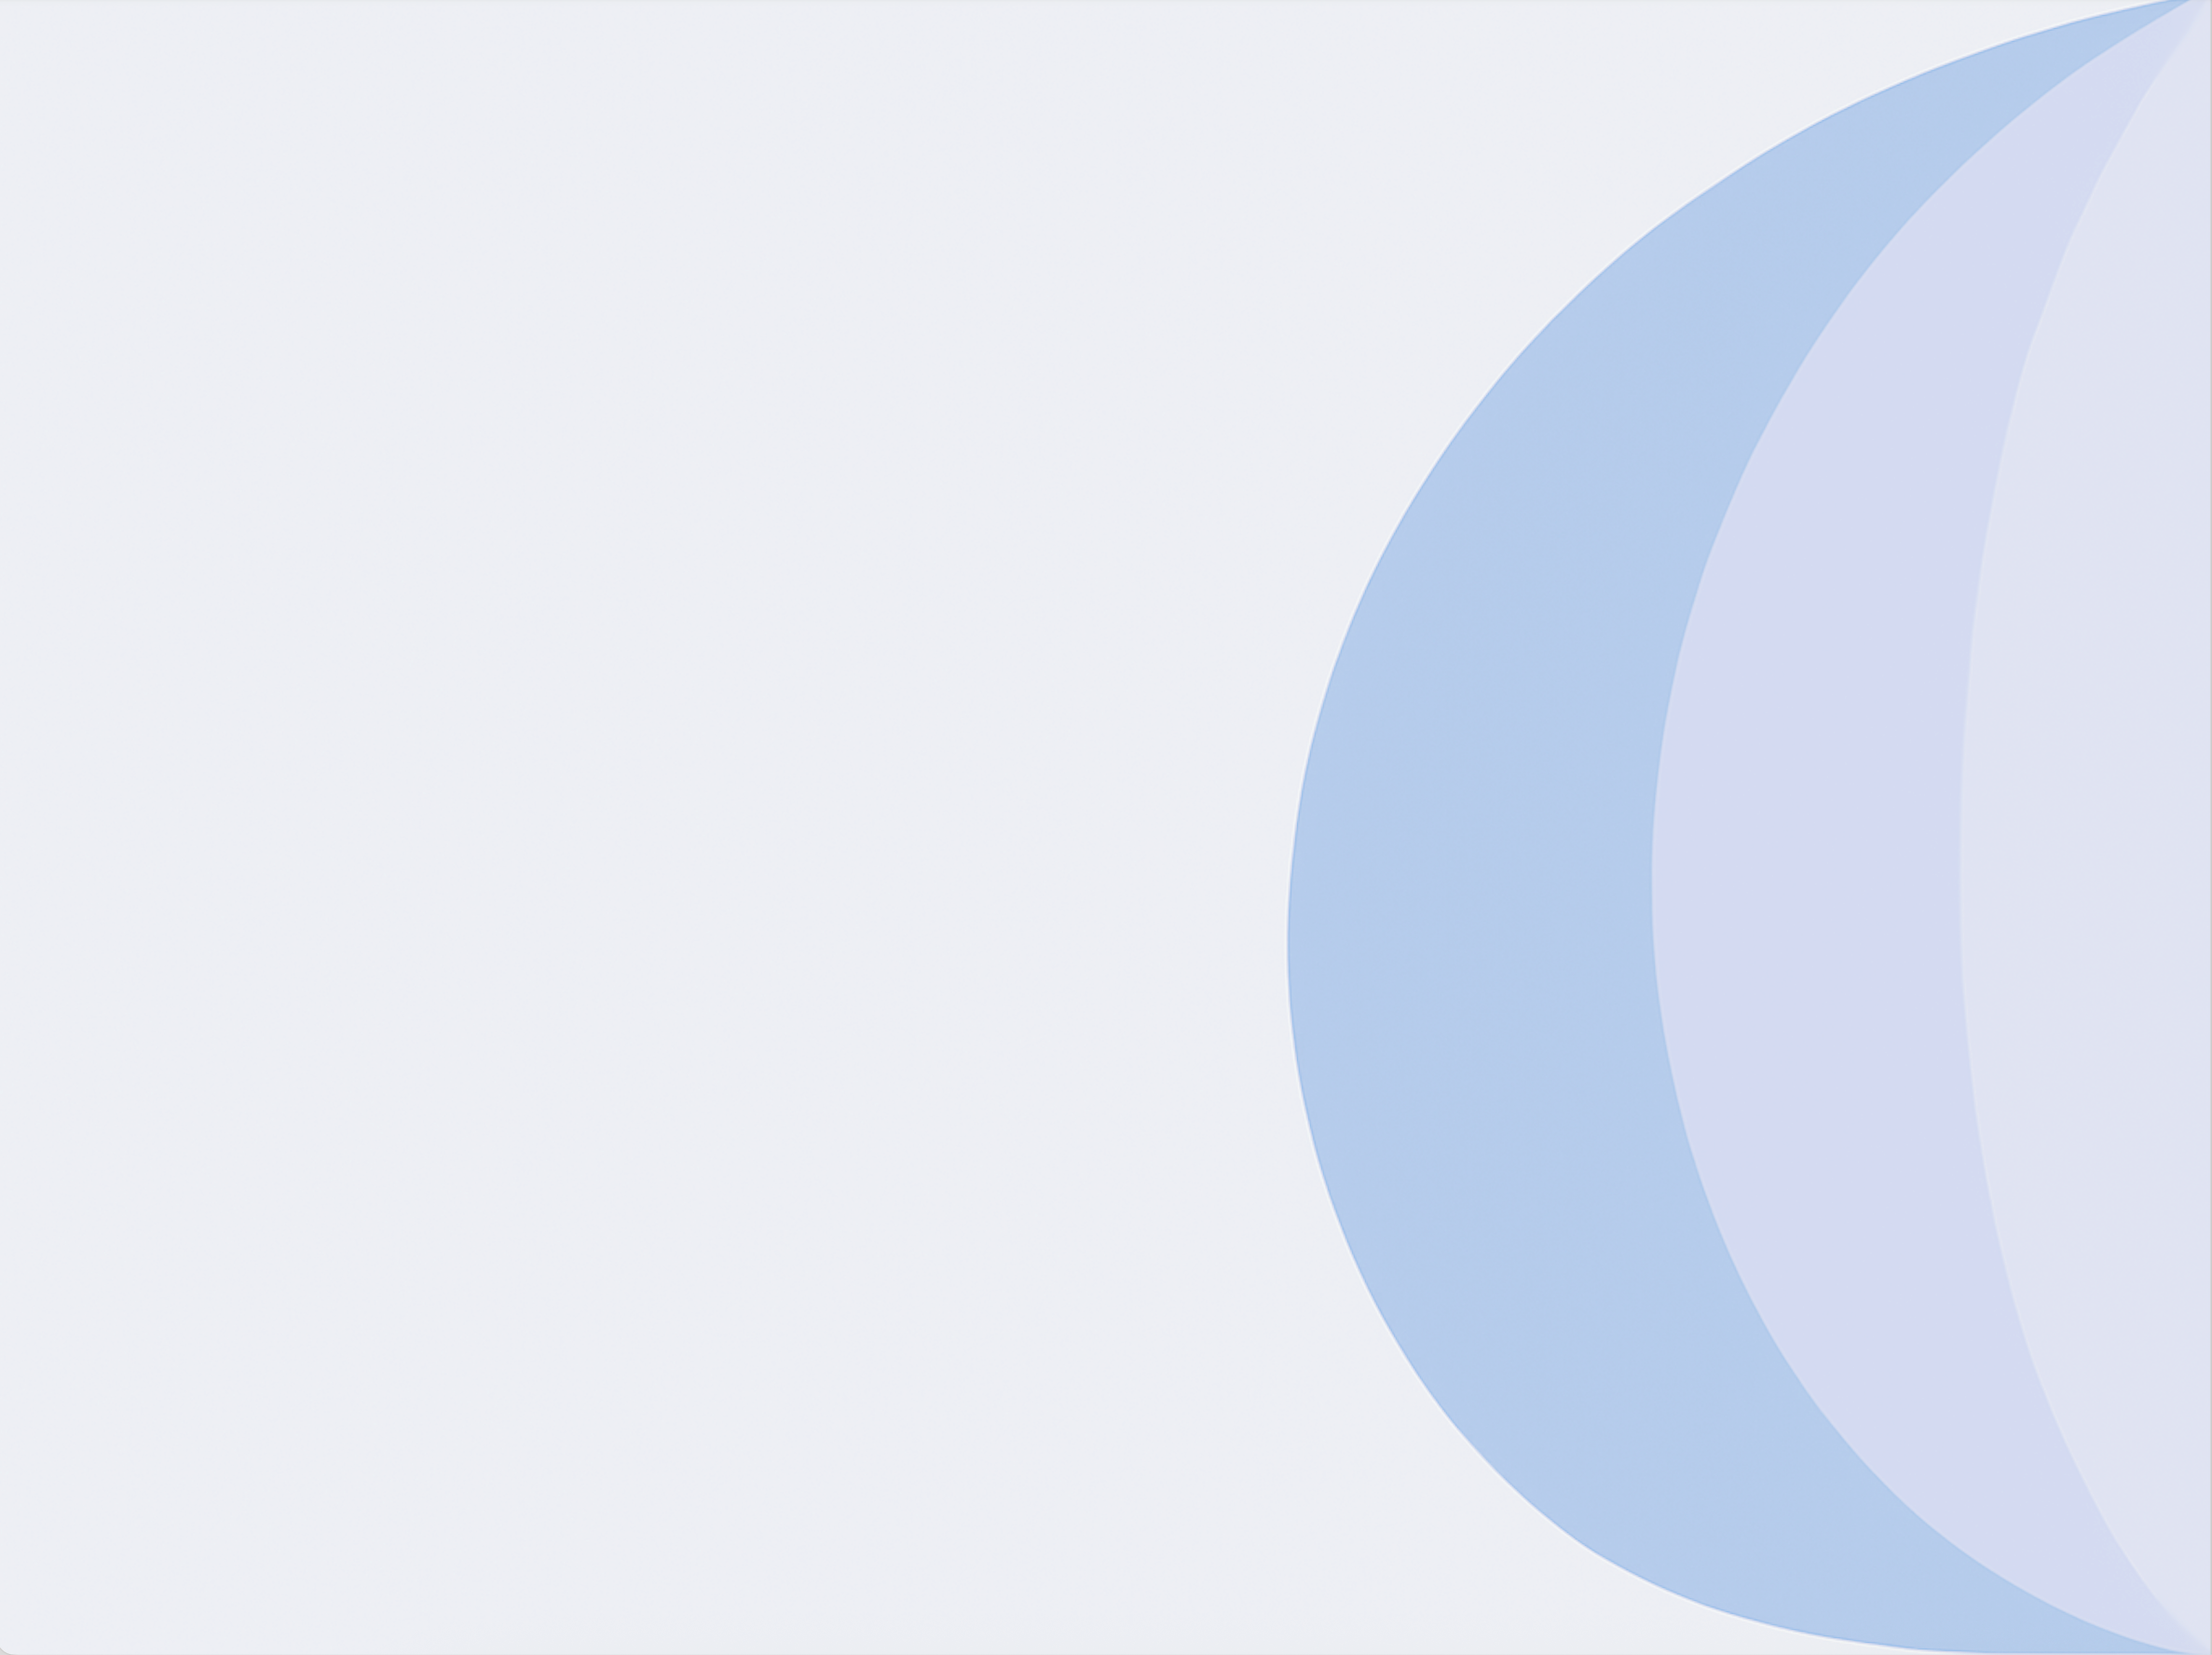
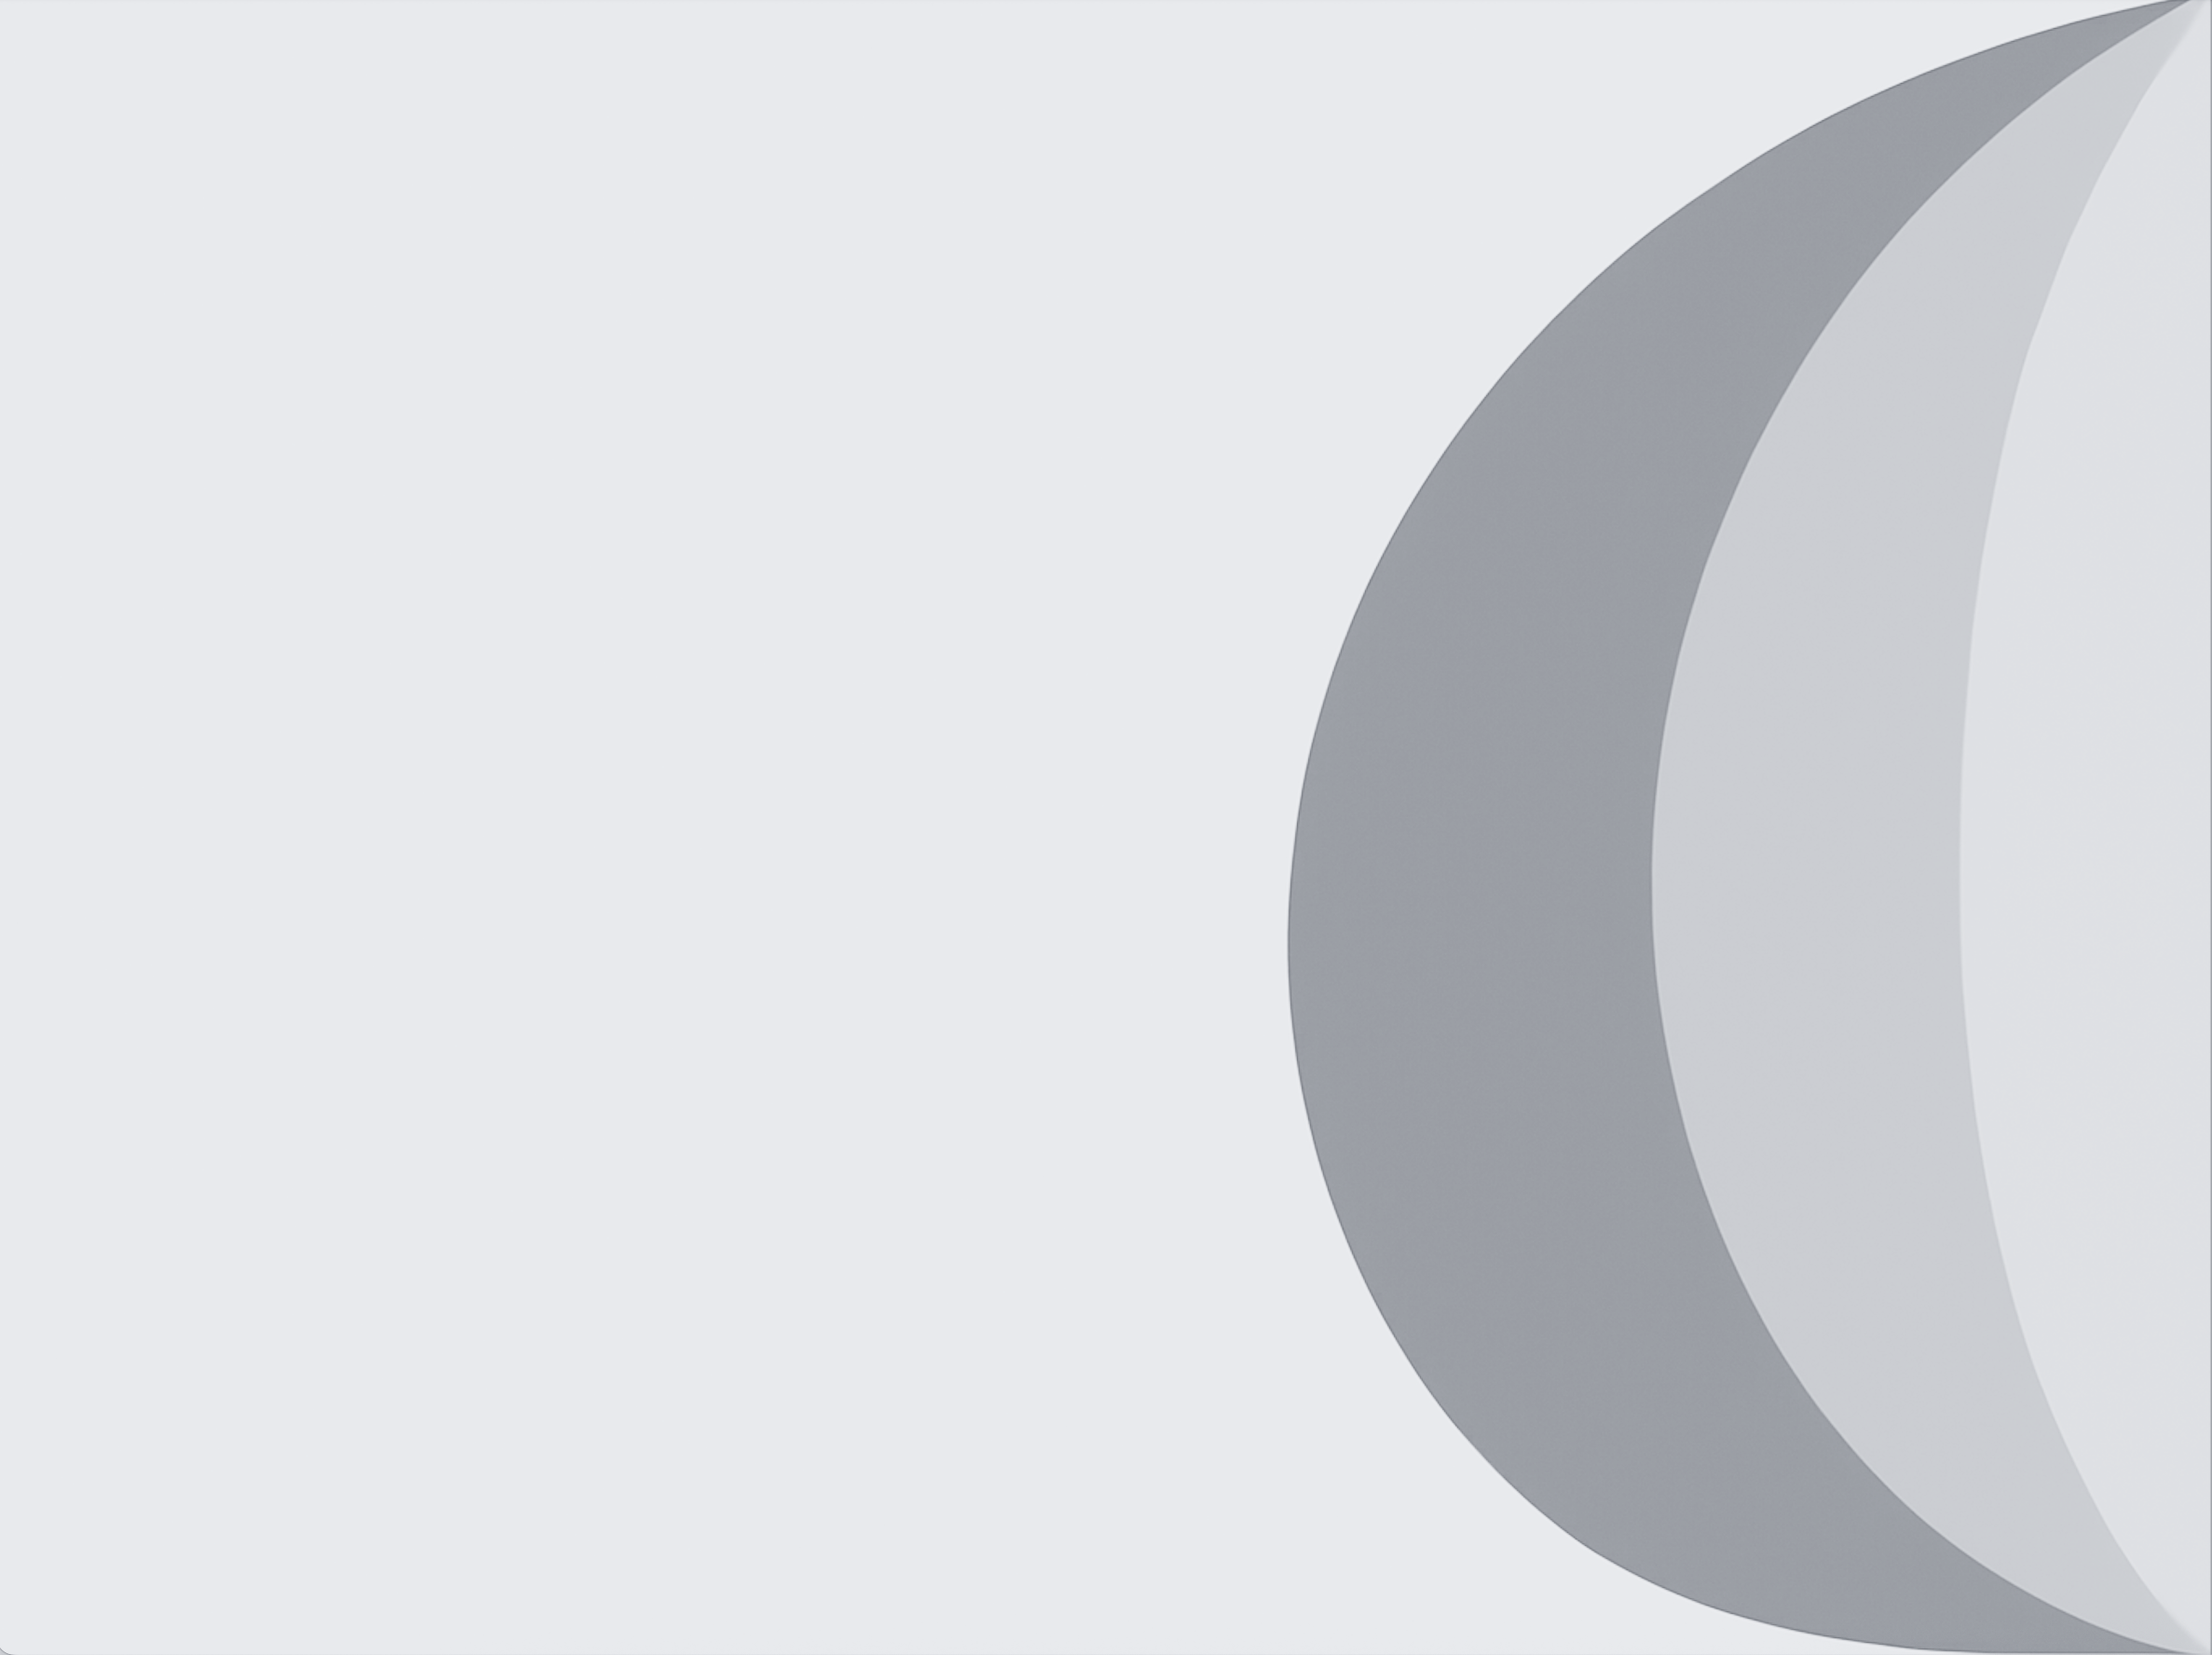
Added Animation when starting up the App and Reworked AutoLoginHandler so that if the user uses the Staylogged in Button, the Landing Page loads immediately instead of loading ontop of the Login Scene.
Redesigned Login and Register Look and Feel and Reworked Top Bar Menu.

Changed region(s): [[0.5611, 0.0, 1.0, 1.0]]

diff --git a/Main-Project/StudySpace/src/main/resources/application/studyspace/styles/Stylesheet.css b/Main-Project/StudySpace/src/main/resources/application/studyspace/styles/Stylesheet.css
@@ -25,7 +25,7 @@
 
 /* TextField & PasswordField styling */
 .text-field, .password-field {
-    -fx-background-color: #becaff;
+    -fx-background-color: #c0c3d1;
     -fx-border-color: transparent;
     -fx-background-radius: 20;
     -fx-border-radius: 20;
@@ -36,20 +36,20 @@
 }
 
 .text-field:focused, .password-field:focused {
-    -fx-border-color: #b8aefd;
+    -fx-border-color: #827f91;
     -fx-border-width: 2px;
 }
 
 /* Login/Register Button */
 .button {
-    -fx-background-color: #e2e4ff;
+    -fx-background-color: #c0c1cd;
     -fx-background-radius: 20;
     -fx-font-size: 16px;
     -fx-padding: 10 25;
     -fx-cursor: hand;
 }
 .button:hover {
-    -fx-background-color: #cfd3ff;
+    -fx-background-color: #90919e;
 }
 
 /* Custom Checkbox */

diff --git a/Main-Project/StudySpace/src/main/java/application/studyspace/controllers/auth/LoginController.java b/Main-Project/StudySpace/src/main/java/application/studyspace/controllers/auth/LoginController.java
@@ -5,11 +5,8 @@ import application.studyspace.services.DataBase.DatabaseConnection;
 import application.studyspace.services.DataBase.DatabaseHelper;
 import application.studyspace.services.DataBase.UUIDHelper;
 import application.studyspace.services.Styling.CreateToolTip;
-import application.studyspace.services.auth.LoginChecker;
+import application.studyspace.services.auth.*;
 import application.studyspace.services.Scenes.SceneSwitcher;
-import application.studyspace.services.auth.LoginSession;
-import application.studyspace.services.auth.SessionManager;
-import application.studyspace.services.auth.ValidationUtils;
 import javafx.animation.PauseTransition;
 import javafx.application.Platform;
 import javafx.fxml.FXML;
@@ -228,7 +225,9 @@ public class LoginController {
                 throw new RuntimeException(e);
             }
 
-            activateAutoLogin(userUUID.toString());
+            if (stayLoggedInCheckbox.isSelected()) {
+                AutoLoginHandler.activateAutoLogin(userUUID.toString());
+            }
 
             Stage stage = (Stage) ((Node) event.getSource()).getScene().getWindow();
             SceneSwitcher.switchTo(stage, "/application/studyspace/landingpage/Landing-Page.fxml", "Landing Page");
@@ -240,42 +239,6 @@ public class LoginController {
                 "Planify Onboarding",
                 (OnboardingPage1Controller controller) -> controller.setUserUUID(userUUID)
             );
-        }
-    }
-
-    /**
-     * Activates the auto-login mechanism for the specified user. This method generates
-     * a unique token if the "stay logged in" option is selected and stores the token
-     * in both the session and the database for future login validation. The token is
-     * accompanied by a timestamp to track its creation time. If an error occurs during
-     * the database operation, a runtime exception is thrown.
-     *
-     * @param uuidOfUser The unique identifier of the user for whom the auto-login process
-     *                   is being activated.
-     */
-    private void activateAutoLogin(String uuidOfUser) {
-        if (stayLoggedInCheckbox.isSelected()) {
-            String token = ValidationUtils.generateToken().toString();
-            LoginSession.saveLogin(uuidOfUser, token);
-
-            String sql = """
-            UPDATE users
-               SET login_token = ?, timestamp_token = ?
-               WHERE user_id = ?;""";
-
-            System.out.println("!!!!!!! " + token);
-            try (Connection conn = new DatabaseConnection().getConnection();
-                 PreparedStatement ps = conn.prepareStatement(sql)) {
-
-                ps.setString(1, token);
-                ps.setTimestamp(2, new java.sql.Timestamp(System.currentTimeMillis()));
-                ps.setBytes(3, uuidToBytes(UUIDHelper.stringToUUID(uuidOfUser)));
-
-                ps.executeQuery();
-
-            } catch (SQLException e) {
-                throw new RuntimeException(e);
-            }
         }
     }
 
@@ -311,6 +274,29 @@ public class LoginController {
     }
 
     /**
+     * Sets the input email in the email text field, applies a correction style,
+     * and logs validation status after the correction.
+     *
+     * @param email The email address to set and validate.
+     */
+    public void setInputEmail(String email) {
+        InputEmailTextfield.setText(email);
+        applyErrorStyle(InputEmailTextfield, "text-field-correct");
+        System.out.println("The user accepted our correction for the E-Mail input.");
+
+        PauseTransition delay = new PauseTransition(Duration.seconds(10));
+        delay.setOnFinished(finishedEvent -> {
+            resetFieldStyle(InputPassword, "password-field-correct", "password-field");
+        });
+
+        if (ValidationUtils.isValidEmail(email)) {
+            System.out.println("The corrected email is still invalid.");
+        } else {
+            System.out.println("The corrected email is now valid.");
+        }
+    }
+
+    /**
      * Initializes the controller after its root element has been completely processed.
      * This method sets up a custom tooltip for the password input field, providing
      * guidance on the expected password format and requirements.
@@ -343,28 +329,5 @@ public class LoginController {
         Image03.fitHeightProperty().bind(stackPane.heightProperty());
         StackPane.setAlignment(Image03, javafx.geometry.Pos.TOP_RIGHT);
 
-    }
-
-    /**
-     * Sets the input email in the email text field, applies a correction style,
-     * and logs validation status after the correction.
-     *
-     * @param email The email address to set and validate.
-     */
-    public void setInputEmail(String email) {
-        InputEmailTextfield.setText(email);
-        applyErrorStyle(InputEmailTextfield, "text-field-correct");
-        System.out.println("The user accepted our correction for the E-Mail input.");
-
-        PauseTransition delay = new PauseTransition(Duration.seconds(10));
-        delay.setOnFinished(finishedEvent -> {
-            resetFieldStyle(InputPassword, "password-field-correct", "password-field");
-        });
-
-        if (ValidationUtils.isValidEmail(email)) {
-            System.out.println("The corrected email is still invalid.");
-        } else {
-            System.out.println("The corrected email is now valid.");
-        }
     }
 }

diff --git a/Main-Project/StudySpace/src/main/java/application/studyspace/MainApp.java b/Main-Project/StudySpace/src/main/java/application/studyspace/MainApp.java
@@ -3,25 +3,85 @@ package application.studyspace;
 import application.studyspace.controllers.auth.LoginController;
 import application.studyspace.services.Scenes.SceneSwitcher;
 import application.studyspace.services.auth.AutoLoginHandler;
+import javafx.animation.FadeTransition;
+import javafx.animation.ScaleTransition;
+import javafx.animation.SequentialTransition;
 import javafx.application.Application;
+import javafx.scene.Scene;
+import javafx.scene.image.Image;
+import javafx.scene.image.ImageView;
+import javafx.scene.layout.StackPane;
 import javafx.stage.Stage;
+import javafx.util.Duration;
 
 public class MainApp extends Application {
 
     @Override
     public void start(Stage stage) {
-        System.out.println("🚀 Starting app...");
-        stage.setFullScreen(true); // Set fullscreen before scene is shown
+        // Create the splash screen (logo + animation)
+        ImageView logo = new ImageView(new Image(getClass().getResource("/images/auth/LoginPage02.png").toExternalForm()));
+        logo.setFitWidth(400);
+        logo.setPreserveRatio(true);
 
-        if(AutoLoginHandler.AutoLoginIfPossible()) {
-            SceneSwitcher.switchTo(stage, "/application/studyspace/landingpage/Landing-Page.fxml", "StudySpace Landing Page - Welcome,");
-            stage.show();
+        // Set up the root layout
+        StackPane root = new StackPane(logo);
+        root.setStyle("-fx-background-color: white;");
+
+        // Create the scene
+        Scene splashScene = new Scene(root, 800, 600);
+        stage.setScene(splashScene);
+        stage.setResizable(false);
+        stage.centerOnScreen();
+        stage.show();
+
+        // Play splash animations
+        playSplashAnimation(stage, logo);
+    }
+
+    /**
+     * Plays the splash screen animation and transitions to the main scene.
+     */
+    private void playSplashAnimation(Stage stage, ImageView logo) {
+        // Pulse animation (scale up and down)
+        ScaleTransition scaleTransition = new ScaleTransition(Duration.seconds(0.8), logo);
+        scaleTransition.setFromX(1.0);
+        scaleTransition.setFromY(1.0);
+        scaleTransition.setToX(1.2);
+        scaleTransition.setToY(1.2);
+        scaleTransition.setAutoReverse(true);
+        scaleTransition.setCycleCount(6); // 3 seconds of pulsation (6 cycles at 0.8 seconds each)
+
+        // Fade-Out Transition
+        FadeTransition fadeTransition = new FadeTransition(Duration.seconds(1), logo);
+        fadeTransition.setFromValue(1.0);
+        fadeTransition.setToValue(0.0);
+
+        // Transition to the next scene after animations are done
+        fadeTransition.setOnFinished(event -> loadNextScene(stage));
+
+        // Combine animations
+        SequentialTransition sequentialTransition = new SequentialTransition(scaleTransition, fadeTransition);
+        sequentialTransition.play();
+    }
+
+    /**
+     * Determines whether the user should be directed to the Landing Page (auto-login)
+     * or Login Page and transitions to the relevant scene.
+     */
+    private void loadNextScene(Stage stage) {
+        if (//AutoLoginHandler.AutoLoginIfPossible()) {
+            false ){// Load Landing Page if auto-login succeeds
+            SceneSwitcher.switchTo(stage, "/application/studyspace/landingpage/Landing-Page.fxml", "Landing Page");
         } else {
+            // Otherwise, load Login Page
             SceneSwitcher.switchTo(stage, "/application/studyspace/auth/Login.fxml", "StudySpace Login");
-            stage.show();
         }
 
+        // Ensure fullscreen mode is applied after the scene switch
+        stage.setFullScreen(true);
     }
+
+
 
     public static void main(String[] args) {
         launch();

diff --git a/Main-Project/StudySpace/src/main/java/application/studyspace/services/auth/AutoLoginHandler.java b/Main-Project/StudySpace/src/main/java/application/studyspace/services/auth/AutoLoginHandler.java
@@ -61,4 +61,39 @@ public class AutoLoginHandler {
 
         return false;
     }
+
+    /**
+     * Activates the auto-login mechanism for the specified user. This method generates
+     * a unique token if the "stay logged in" option is selected and stores the token
+     * in both the session and the database for future login validation. The token is
+     * accompanied by a timestamp to track its creation time. If an error occurs during
+     * the database operation, a runtime exception is thrown.
+     *
+     * @param uuidOfUser The unique identifier of the user for whom the auto-login process
+     *                   is being activated.
+     */
+    public static void activateAutoLogin(String uuidOfUser) {
+
+        String token = ValidationUtils.generateToken().toString();
+        LoginSession.saveLogin(uuidOfUser, token);
+
+        String sql = """
+        UPDATE users
+           SET login_token = ?, timestamp_token = ?
+           WHERE user_id = ?;""";
+
+        System.out.println("!!!!!!! " + token);
+        try (Connection conn = new DatabaseConnection().getConnection();
+             PreparedStatement ps = conn.prepareStatement(sql)) {
+
+            ps.setString(1, token);
+            ps.setTimestamp(2, new java.sql.Timestamp(System.currentTimeMillis()));
+            ps.setBytes(3, uuidToBytes(UUIDHelper.stringToUUID(uuidOfUser)));
+
+            ps.executeQuery();
+
+        } catch (SQLException e) {
+            throw new RuntimeException(e);
+        }
+    }
 }
